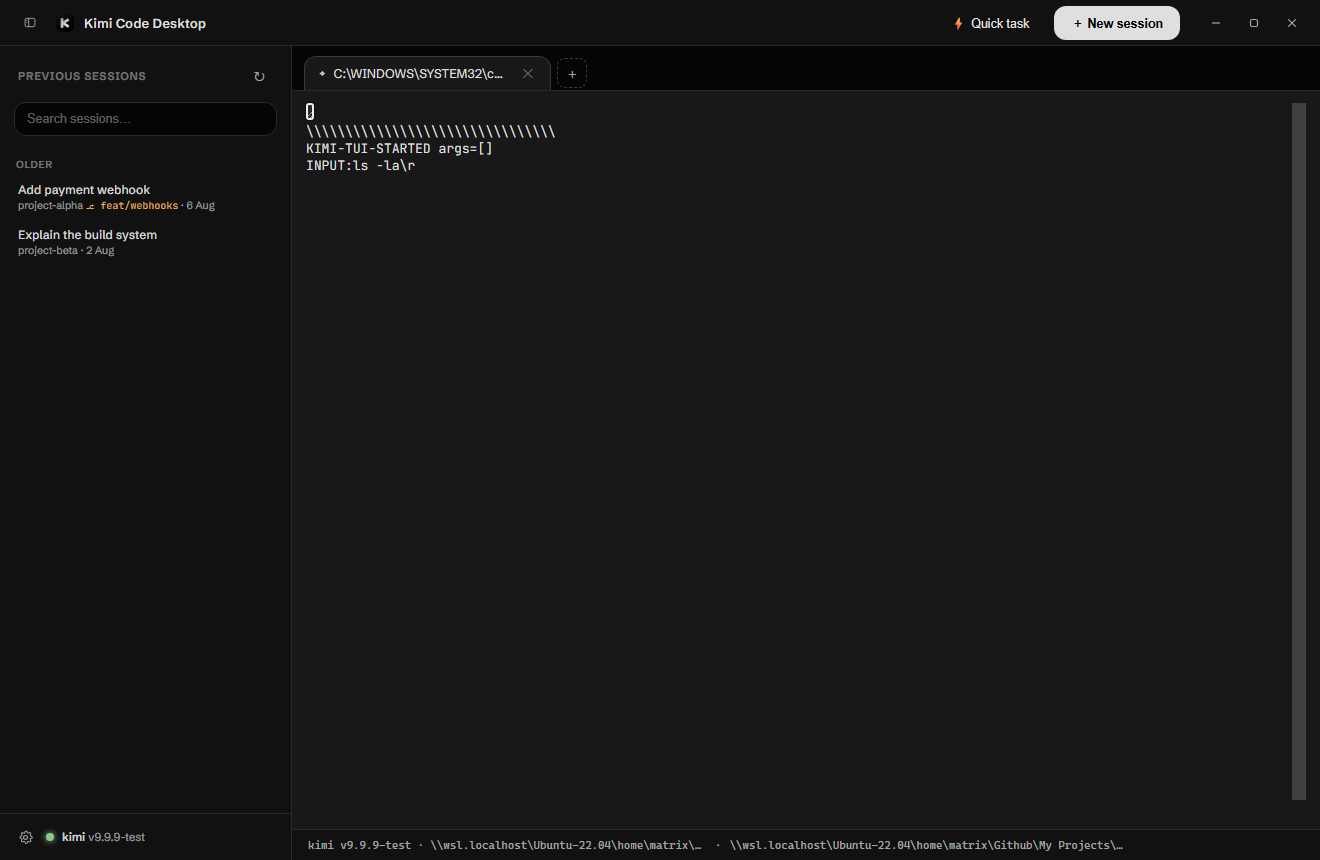
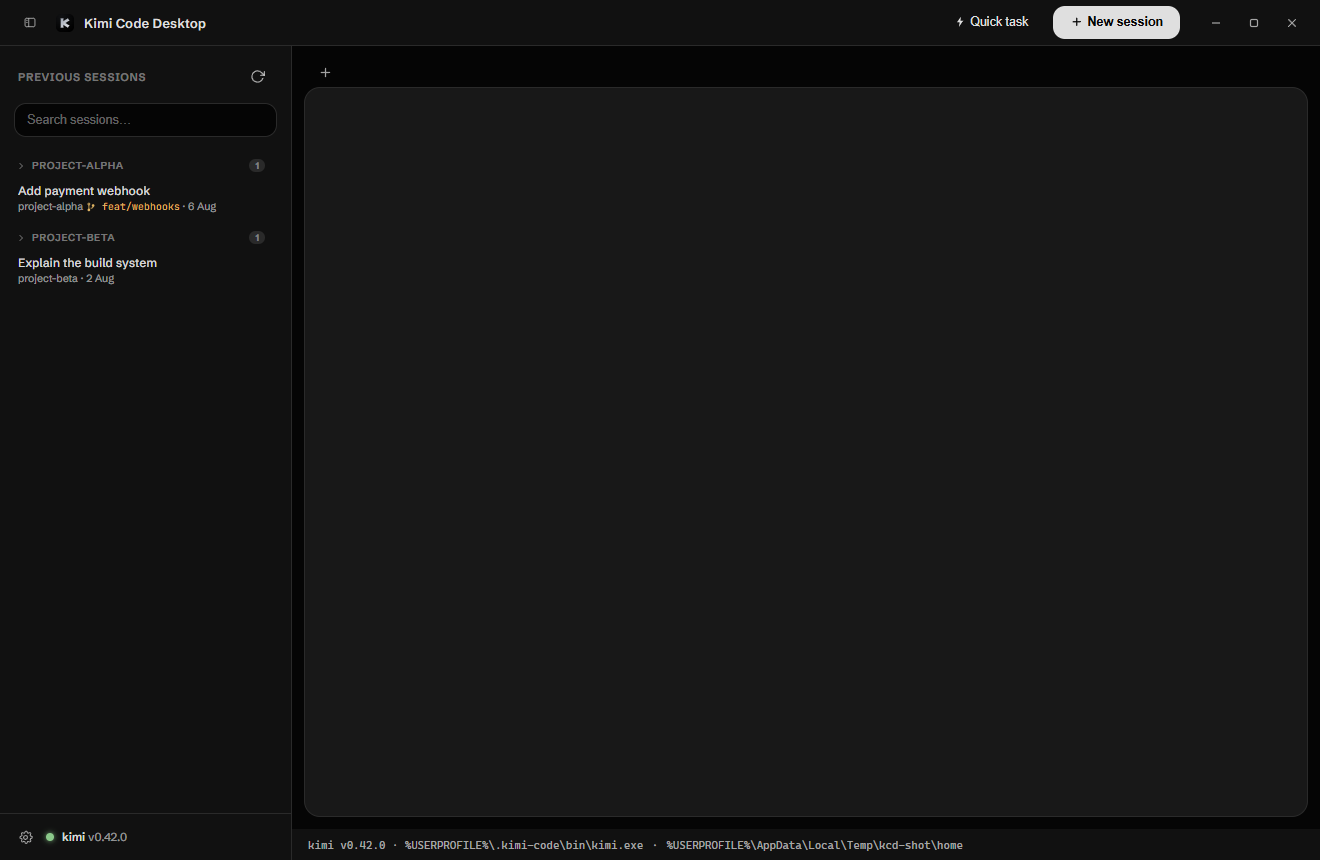
Refresh the README screenshots from the current app
The old images predated the current UI. New captures come from the real
Windows app driven over CDP: the boot splash, the main window with the
demo fixture sessions (no private data), and both Settings tabs
(config.toml and the Sessions tab that now owns the session folder).

diff --git a/README.md b/README.md
@@ -89,9 +89,11 @@ Grab an installer straight from [**Releases**](https://github.com/grafizum/kimi-
 
 ## 🖼 Screenshots
 
-| Main window — sessions, tabs, live terminal | Settings — config.toml editor, theme, CLI options |
+| Main window — sessions, tabs, live terminal | Boot splash |
 | --- | --- |
-| <img src="docs/screenshots/main.png" alt="Main window" width="480" /> | <img src="docs/screenshots/settings.png" alt="Settings with config.toml editor" width="480" /> |
+| <img src="docs/screenshots/main.png" alt="Main window with the session history sidebar, tabs and a live terminal" width="480" /> | <img src="docs/screenshots/splash.png" alt="The Kimi boot splash with the animated logo" width="480" /> |
+| **Settings → config.toml** — the CLI's own config, edited in place | **Settings → Sessions** — session folder and defaults |
+| <img src="docs/screenshots/settings.png" alt="Settings with the config.toml editor" width="480" /> | <img src="docs/screenshots/settings-sessions.png" alt="Settings, Sessions tab with the session folder setting" width="480" /> |
 
 ## 🚀 Usage
 
